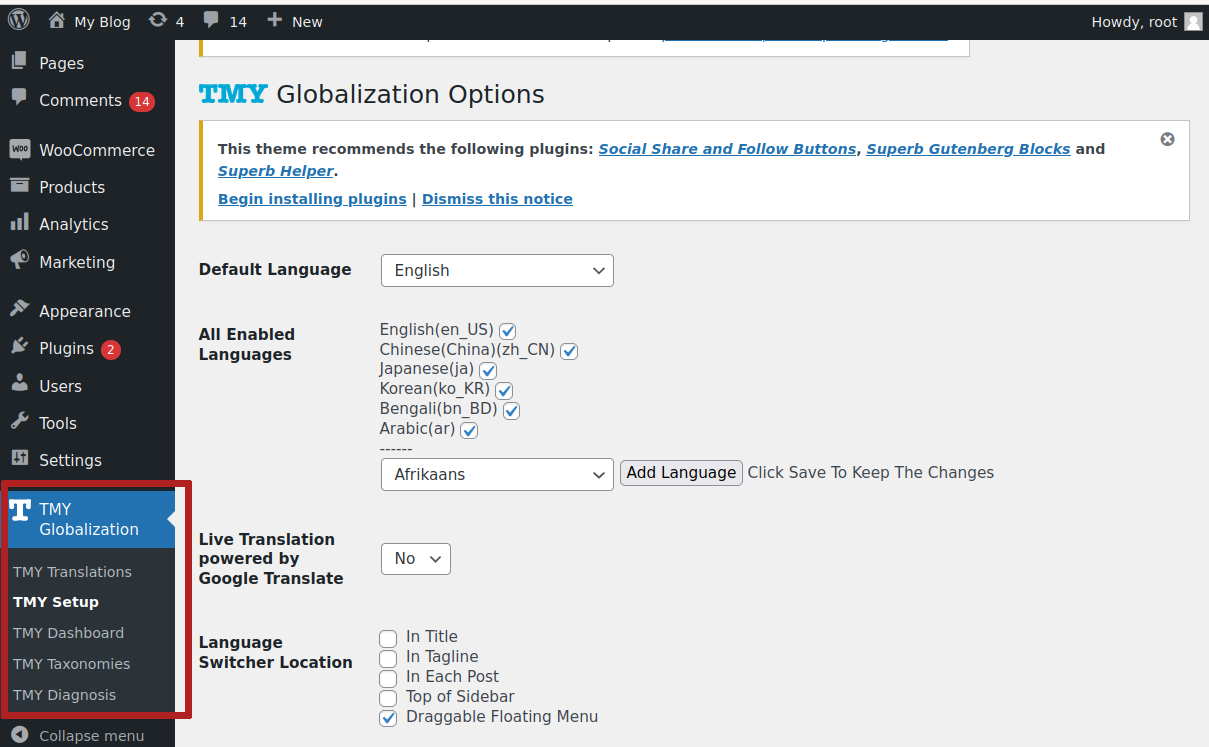
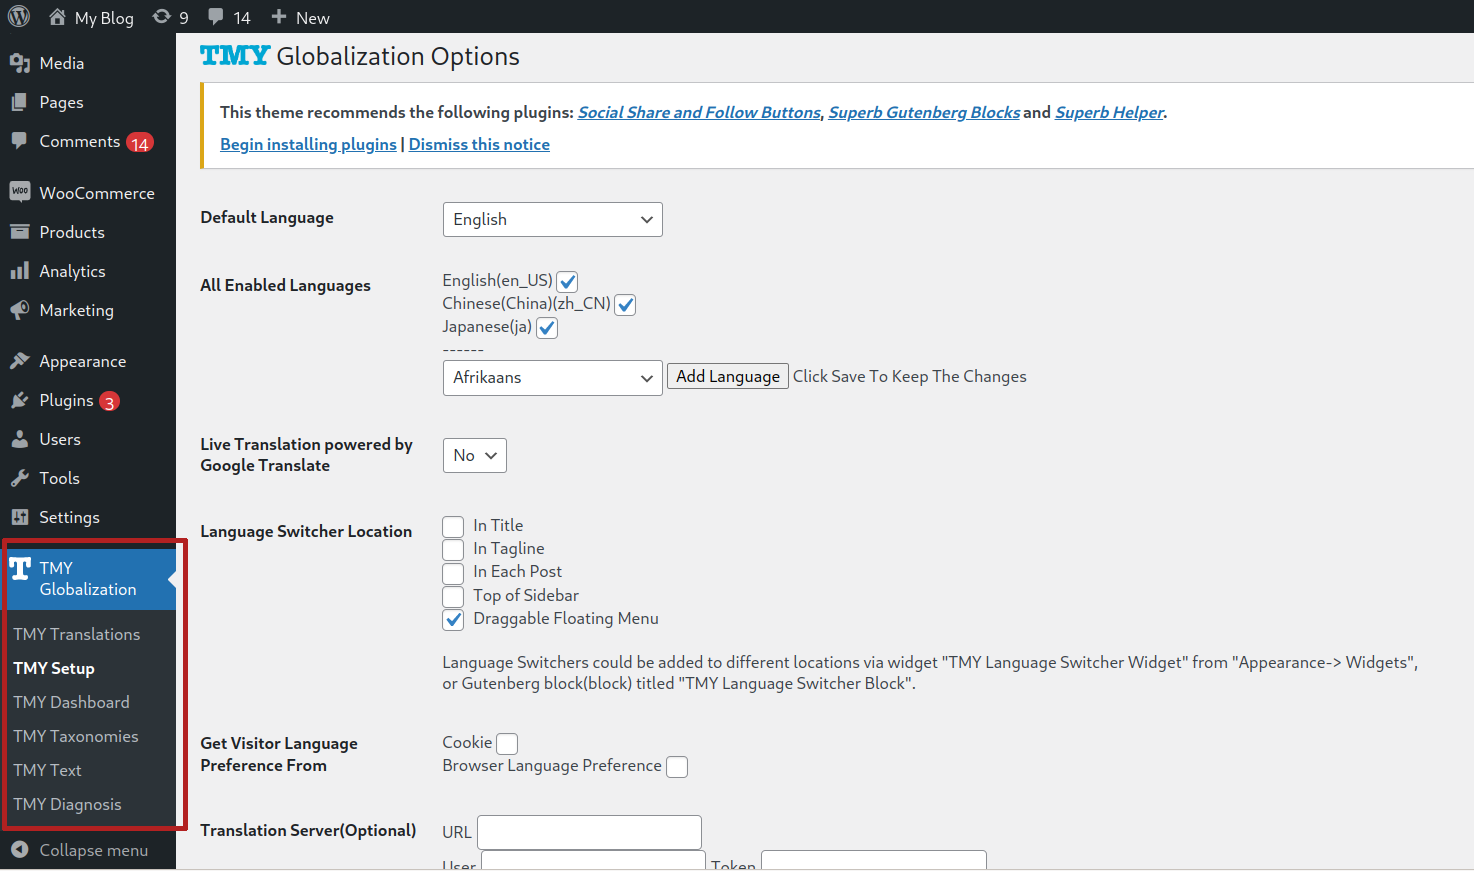
tmy text

diff --git a/README.md b/README.md
@@ -117,7 +117,7 @@ Then the plugin will automatically create the place holder post corresponding to
 
 Following the same way to translate the page or post to complete the translation.
 
-## Use TMY Plugin For Taxonomies Translation(Categories, Tags, Woocommerces) 
+## Use TMY Plugin For Taxonomies Translation(Categories, Tags, WooCommerces) 
 
 TMY plugin will automatically detect all the taxonomy types including those from other themes or plugins, as shown in the following screen shots, enable as you need.
 
@@ -129,9 +129,15 @@ Then visit TMY Globalization -> TMY Taxonomies page, to start translation, you c
 
 Following the same way to translate the page or post to complete the translation.
 
-## Translate Woo Commerce Product Attributes
+## Translate Menu Labels and WooCommerce Product Attributes
 
-Create a private Post with the title the same as the Product attribute, then start translation as you do with normal Post, remember to keep it private, so it will not show up on your site. 
+Visit TMY Globalization -> TMY Text page, The plugin will automatically pick all the menu labels and WooCommerce product attributes as shown in the following screenshot.
+
+Select the item or items, use "Sync or Sync Translation" bulk acitons to star the translation process. Just remember to keep title(e.g. "Color" ) unchanged. 
+
+<kbd><img src="doc/tmy-text.png" width="600"/></kbd>
+
+Or create a private Post with the title the same as the Product attribute, then start translation as you do with normal Post, remember to keep it private, so it will not show up on your site. 
 
 TMY plugin will pickup the translation following the string match("Color" to "Color") and use it for Woo Commerce product attribute translation.
 
